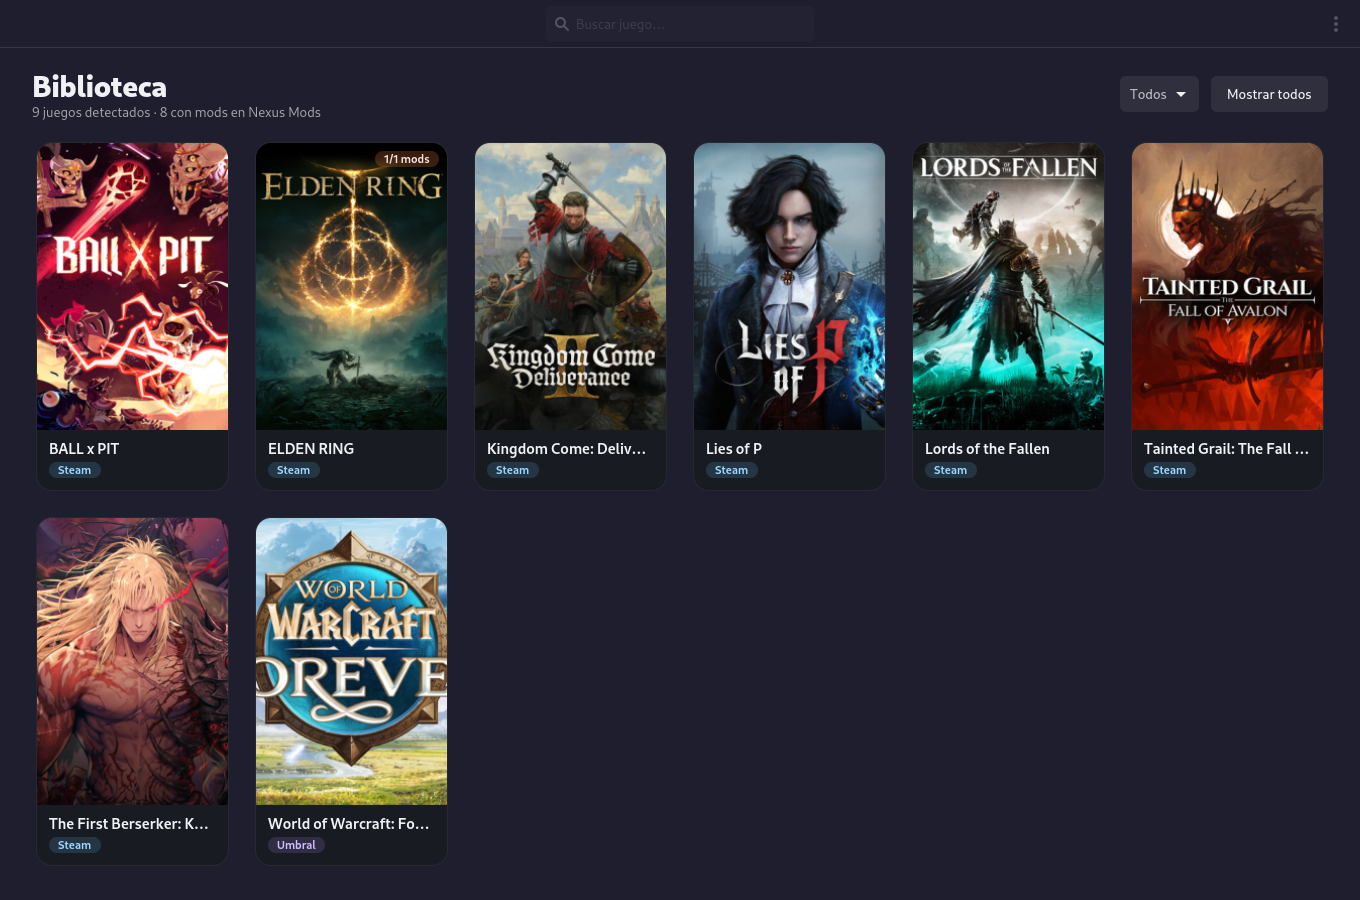
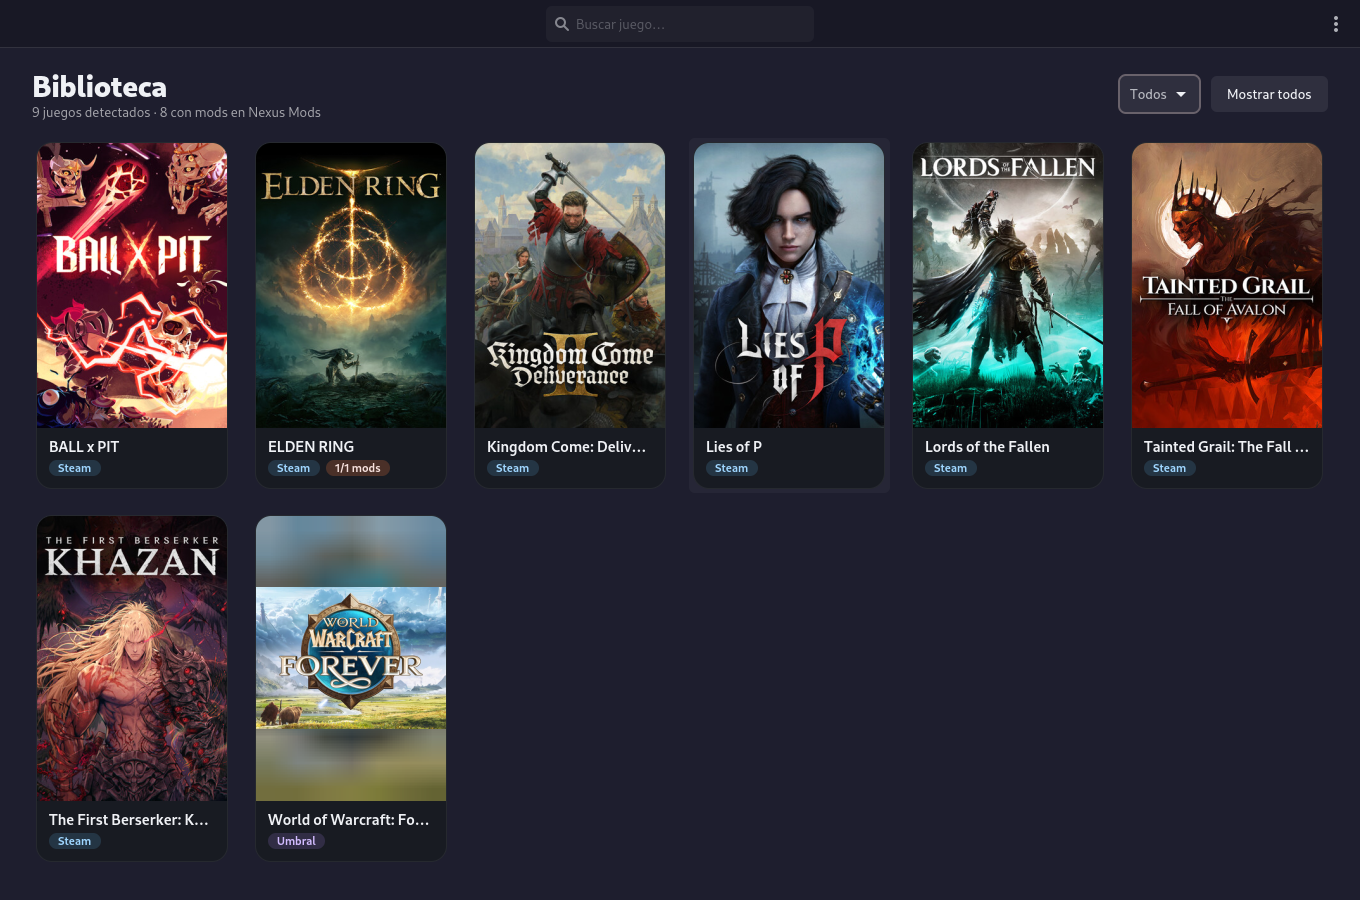
0.2.1: portadas enteras (tarjetas de tamaño fijo), portada vertical de la CDN de Steam si falta, imágenes apaisadas sobre fondo desenfocado y etiqueta de mods bajo la portada

diff --git a/crisol/ui/window.py b/crisol/ui/window.py
@@ -90,42 +90,41 @@ class GameCard(Gtk.Box):
     WIDTH, HEIGHT = 190, 285
 
     def __init__(self, ctl: Controller, game: Game):
-        super().__init__(orientation=Gtk.Orientation.VERTICAL, css_classes=["game-card"])
+        # Tamaño fijo: la portada se ve entera, sin que GTK la estire y la vuelva a recortar.
+        super().__init__(orientation=Gtk.Orientation.VERTICAL, css_classes=["game-card"], hexpand=False,
+                         halign=Gtk.Align.START, width_request=self.WIDTH)
         self.game = game
-        tex = local_texture(game.cover, self.WIDTH, self.HEIGHT) or local_texture(game.hero, self.WIDTH, self.HEIGHT)
-        cover = Gtk.Overlay()
+        tex = (local_texture(game.cover, self.WIDTH, self.HEIGHT, smart=True)
+               or local_texture(game.hero, self.WIDTH, self.HEIGHT, smart=True))
         frame = Gtk.Box(width_request=self.WIDTH, height_request=self.HEIGHT, css_classes=["cover"],
-                        overflow=Gtk.Overflow.HIDDEN)
+                        overflow=Gtk.Overflow.HIDDEN, hexpand=False)
         if tex:
-            pic = Gtk.Picture(paintable=tex, content_fit=Gtk.ContentFit.COVER, hexpand=True, vexpand=True)
-            frame.append(pic)
+            frame.append(Gtk.Picture(paintable=tex, content_fit=Gtk.ContentFit.FILL, can_shrink=False,
+                                     width_request=self.WIDTH, height_request=self.HEIGHT))
         else:
             ph = placeholder(size=56)
             ph.set_hexpand(True)
             ph.set_vexpand(True)
             frame.append(ph)
-        cover.set_child(frame)
+        self.append(frame)
         st = manager.context(game).state
         n = len(st.mods)
-        if n:
-            badges = Gtk.Box(orientation=Gtk.Orientation.VERTICAL, spacing=4, halign=Gtk.Align.END,
-                             valign=Gtk.Align.START, margin_top=8, margin_end=8)
-            badges.append(Gtk.Label(label=_("{0}/{1} mods").format(len(st.profile.enabled), n), css_classes=["chip", "accent"],
-                                    halign=Gtk.Align.END))
-            upd = sum(1 for m in st.mods.values() if m.update_available)
-            if upd:
-                badges.append(Gtk.Label(label=(_("{0} actualizaciones") if upd > 1 else _("1 actualización")).format(upd),
-                                        css_classes=["chip", "success"], halign=Gtk.Align.END))
-            cover.add_overlay(badges)
-        self.append(cover)
         info = Gtk.Box(orientation=Gtk.Orientation.VERTICAL, spacing=4, margin_start=12, margin_end=12,
                        margin_top=10, margin_bottom=12)
-        name = Gtk.Label(label=game.name, xalign=0, ellipsize=Pango.EllipsizeMode.END, max_width_chars=18,
+        name = Gtk.Label(label=game.name, xalign=0, ellipsize=Pango.EllipsizeMode.END, max_width_chars=1, hexpand=True,
                          css_classes=["card-name"], tooltip_text=game.name)
         meta = Gtk.Box(spacing=6)
         meta.append(Gtk.Label(label="Steam" if game.source == "steam" else "Umbral", css_classes=["chip", game.source]))
         if not ctl.compatible(game):
             meta.append(Gtk.Label(label=_('Sin Nexus'), css_classes=["chip"]))
+        if n:  # abajo, no sobre la portada: así no tapa el logo del juego
+            meta.append(Gtk.Label(label=_("{0}/{1} mods").format(len(st.profile.enabled), n),
+                                  css_classes=["chip", "accent"]))
+            upd = sum(1 for m in st.mods.values() if m.update_available)
+            if upd:
+                meta.append(Gtk.Label(label="↑ {0}".format(upd), css_classes=["chip", "success"],
+                                      tooltip_text=(_("{0} actualizaciones") if upd > 1 else _("1 actualización"))
+                                      .format(upd)))
         info.append(name)
         info.append(meta)
         self.append(info)

diff --git a/crisol/ui/util.py b/crisol/ui/util.py
@@ -17,7 +17,7 @@ log = logging.getLogger(__name__)
 _pool = ThreadPoolExecutor(max_workers=6, thread_name_prefix="crisol-img")
 _session = requests.Session()
 _session.headers["User-Agent"] = USER_AGENT
-_textures: dict[tuple[str, int, int], Gdk.Texture] = {}
+_textures: dict[tuple, Gdk.Texture] = {}
 
 
 def run_async(fn: Callable, on_done: Callable | None = None, on_error: Callable[[Exception], None] | None = None,
@@ -43,8 +43,39 @@ def idle(fn: Callable, *args) -> None:
     GLib.idle_add(lambda: (fn(*args), False)[1])
 
 
-def _texture_from_file(path: Path, w: int, h: int) -> Gdk.Texture | None:
-    """Imagen recortada al centro para cubrir exactamente w×h (o escalada a lo ancho si h == 0)."""
+def _cover_crop(pb, w: int, h: int):
+    pw, ph = pb.get_width(), pb.get_height()
+    k = max(w / pw, h / ph)
+    sw, sh = max(w, round(pw * k)), max(h, round(ph * k))
+    pb = pb.scale_simple(sw, sh, GdkPixbuf.InterpType.BILINEAR)
+    return pb.new_subpixbuf((sw - w) // 2, (sh - h) // 2, w, h)
+
+
+def _contain_on_blur(pb, w: int, h: int):
+    """La imagen entera, centrada sobre un fondo desenfocado y oscurecido de sí misma (sin recortar
+    portadas que no tienen la proporción de la tarjeta, p. ej. cuadradas o apaisadas)."""
+    bg = _cover_crop(pb, w, h)
+    tiny = bg.scale_simple(max(1, w // 24), max(1, h // 24), GdkPixbuf.InterpType.BILINEAR)
+    bg = tiny.scale_simple(w, h, GdkPixbuf.InterpType.BILINEAR)
+    dark = GdkPixbuf.Pixbuf.new(GdkPixbuf.Colorspace.RGB, True, 8, w, h)
+    dark.fill(0x101217FF)
+    bg.composite(dark, 0, 0, w, h, 0, 0, 1, 1, GdkPixbuf.InterpType.BILINEAR, 170)
+    pw, ph = pb.get_width(), pb.get_height()
+    # Apaisadas: más grandes, recortando un 20 % de cada lado (el logo suele ir en el centro).
+    k = min(h / ph, (1.6 * w / pw) if pw > ph else w / pw)
+    fw, fh = max(1, round(pw * k)), max(1, round(ph * k))
+    fg = pb.scale_simple(fw, fh, GdkPixbuf.InterpType.HYPER)
+    if fw > w:
+        fg = fg.new_subpixbuf((fw - w) // 2, 0, w, fh)
+        fw = w
+    x, y = (w - fw) // 2, (h - fh) // 2
+    fg.composite(dark, x, y, fw, fh, x, y, 1, 1, GdkPixbuf.InterpType.NEAREST, 255)
+    return dark
+
+
+def _texture_from_file(path: Path, w: int, h: int, smart: bool = False) -> Gdk.Texture | None:
+    """Imagen a exactamente w×h (o escalada a lo ancho si h == 0). Por defecto se recorta al centro;
+    con smart, si la proporción es muy distinta, se muestra entera sobre un fondo desenfocado."""
     try:
         pb = GdkPixbuf.Pixbuf.new_from_file(str(path))
     except GLib.Error:
@@ -52,19 +83,20 @@ def _texture_from_file(path: Path, w: int, h: int) -> Gdk.Texture | None:
     pw, ph = pb.get_width(), pb.get_height()
     if not h:
         h = max(1, round(ph * w / pw))
-    k = max(w / pw, h / ph)
-    sw, sh = max(w, round(pw * k)), max(h, round(ph * k))
-    pb = pb.scale_simple(sw, sh, GdkPixbuf.InterpType.BILINEAR)
-    pb = pb.new_subpixbuf((sw - w) // 2, (sh - h) // 2, w, h)
-    return Gdk.Texture.new_for_pixbuf(pb)
+    ratio = (pw / ph) / (w / h)
+    if smart and not 0.88 <= ratio <= 1.14:
+        out = _contain_on_blur(pb, w, h)
+    else:
+        out = _cover_crop(pb, w, h)
+    return Gdk.Texture.new_for_pixbuf(out)
 
 
-def local_texture(path: Path | None, w: int, h: int = 0) -> Gdk.Texture | None:
+def local_texture(path: Path | None, w: int, h: int = 0, smart: bool = False) -> Gdk.Texture | None:
     if not path:
         return None
-    key = (str(path), w, h)
+    key = (str(path), w, h, smart)
     if key not in _textures:
-        tex = _texture_from_file(path, w, h)
+        tex = _texture_from_file(path, w, h, smart)
         if tex is None:
             return None
         _textures[key] = tex

diff --git a/crisol/games.py b/crisol/games.py
@@ -151,6 +151,32 @@ def scan_umbral() -> list[Game]:
     return games
 
 
+STEAM_CDN_COVER = "https://shared.steamstatic.com/store_item_assets/steam/apps/{appid}/library_600x900.jpg"
+
+
+def fetch_missing_covers(games: list[Game]) -> None:
+    """Portada vertical oficial de la CDN de Steam para los juegos que no la tienen en la caché de Steam
+    (se baja una vez a ~/.cache/crisol/covers; si Steam no la tiene, se recuerda y no se reintenta)."""
+    import requests
+    d = paths.CACHE_DIR / "covers"
+    for g in games:
+        if g.source != "steam" or g.cover:
+            continue
+        f, miss = d / f"{g.source_id}.jpg", d / f"{g.source_id}.none"
+        if not f.exists() and not miss.exists():
+            d.mkdir(parents=True, exist_ok=True)
+            try:
+                r = requests.get(STEAM_CDN_COVER.format(appid=g.source_id), timeout=15)
+                if r.status_code == 200 and r.headers.get("content-type", "").startswith("image/"):
+                    f.write_bytes(r.content)
+                elif r.status_code == 404:
+                    miss.touch()
+            except requests.RequestException as e:
+                log.info("sin portada de Steam para %s: %s", g.name, e)
+        if f.exists():
+            g.cover = f
+
+
 def scan_all() -> list[Game]:
     out = scan_steam() + scan_umbral()
     out.sort(key=lambda g: g.name.lower())

diff --git a/crisol/ui/game_page.py b/crisol/ui/game_page.py
@@ -104,7 +104,7 @@ class GamePage(Adw.NavigationPage):
                                                       Gtk.STYLE_PROVIDER_PRIORITY_APPLICATION + 2)
             hero.add_css_class(cls)
         row = Gtk.Box(spacing=26, hexpand=True)
-        icon_tex = local_texture(g.cover, 150, 225) or local_texture(g.icon, 150, 225)
+        icon_tex = local_texture(g.cover, 150, 225, smart=True) or local_texture(g.icon, 150, 225, smart=True)
         icon_box = Gtk.Box(width_request=150, height_request=225, css_classes=["hero-cover"],
                            overflow=Gtk.Overflow.HIDDEN, valign=Gtk.Align.START, halign=Gtk.Align.START,
                            hexpand=False)

diff --git a/crisol/controller.py b/crisol/controller.py
@@ -5,7 +5,7 @@ import logging
 
 from . import manager, secrets
 from .config import Config
-from .games import Game, scan_all
+from .games import Game, fetch_missing_covers, scan_all
 from .providers.base import ProviderError
 from .providers.nexus import Nexus
 
@@ -23,6 +23,8 @@ class Controller:
     # ---------- bloqueantes (llamar desde hilos) ----------
     def scan(self, refresh: bool = True) -> list[Game]:
         games = scan_all()
+        if refresh:
+            fetch_missing_covers(games)
         have_table = bool(self.nexus.games(refresh))  # tabla de juegos de Nexus (caché semanal)
         for g in games:
             st = manager.context(g).state

diff --git a/crisol/__init__.py b/crisol/__init__.py
@@ -1,4 +1,4 @@
 APP_ID = "dev.madky.Crisol"
 APP_NAME = "Crisol"
-VERSION = "0.2.0"
+VERSION = "0.2.1"
 USER_AGENT = f"{APP_NAME}/{VERSION}"

diff --git a/README.md b/README.md
@@ -3,7 +3,7 @@
 # 錬 Crisol
 
 [![tests](https://github.com/madkyp/crisol-app/actions/workflows/tests.yml/badge.svg)](https://github.com/madkyp/crisol-app/actions/workflows/tests.yml)
-![Version 0.2.0](https://img.shields.io/badge/version-0.2.0-informational)
+![Version 0.2.1](https://img.shields.io/badge/version-0.2.1-informational)
 ![Status: alpha](https://img.shields.io/badge/status-alpha-orange)
 ![License: MIT](https://img.shields.io/badge/license-MIT-blue)
 ![Arch / CachyOS](https://img.shields.io/badge/Arch%20%2F%20CachyOS-Hyprland-1793d1)
